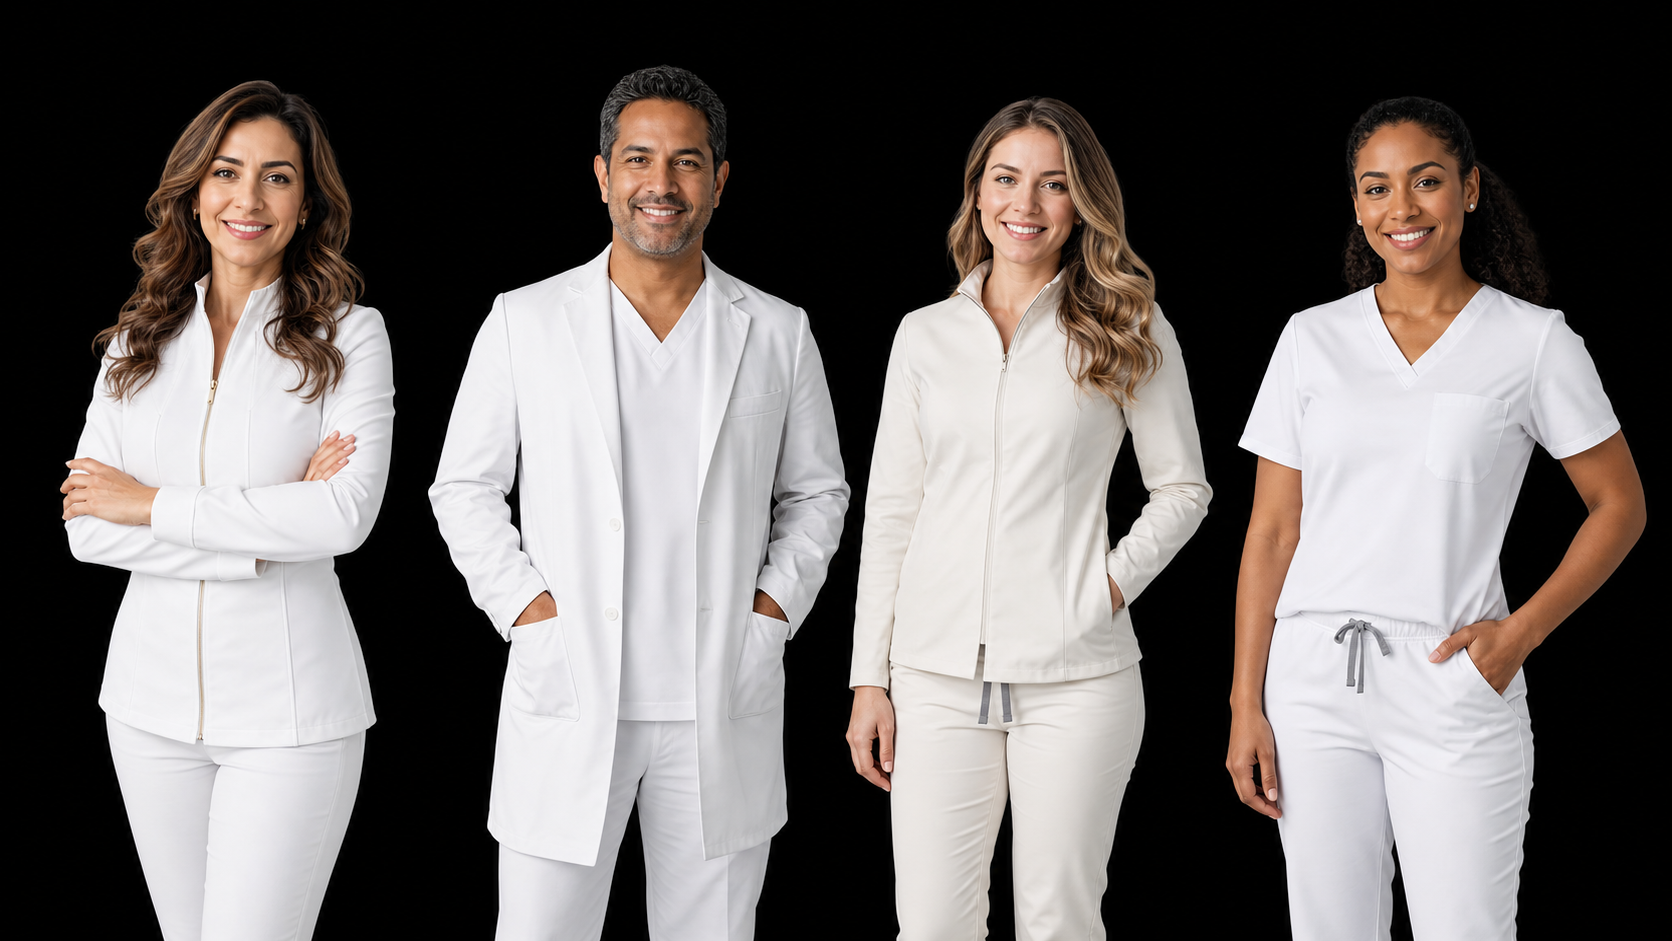
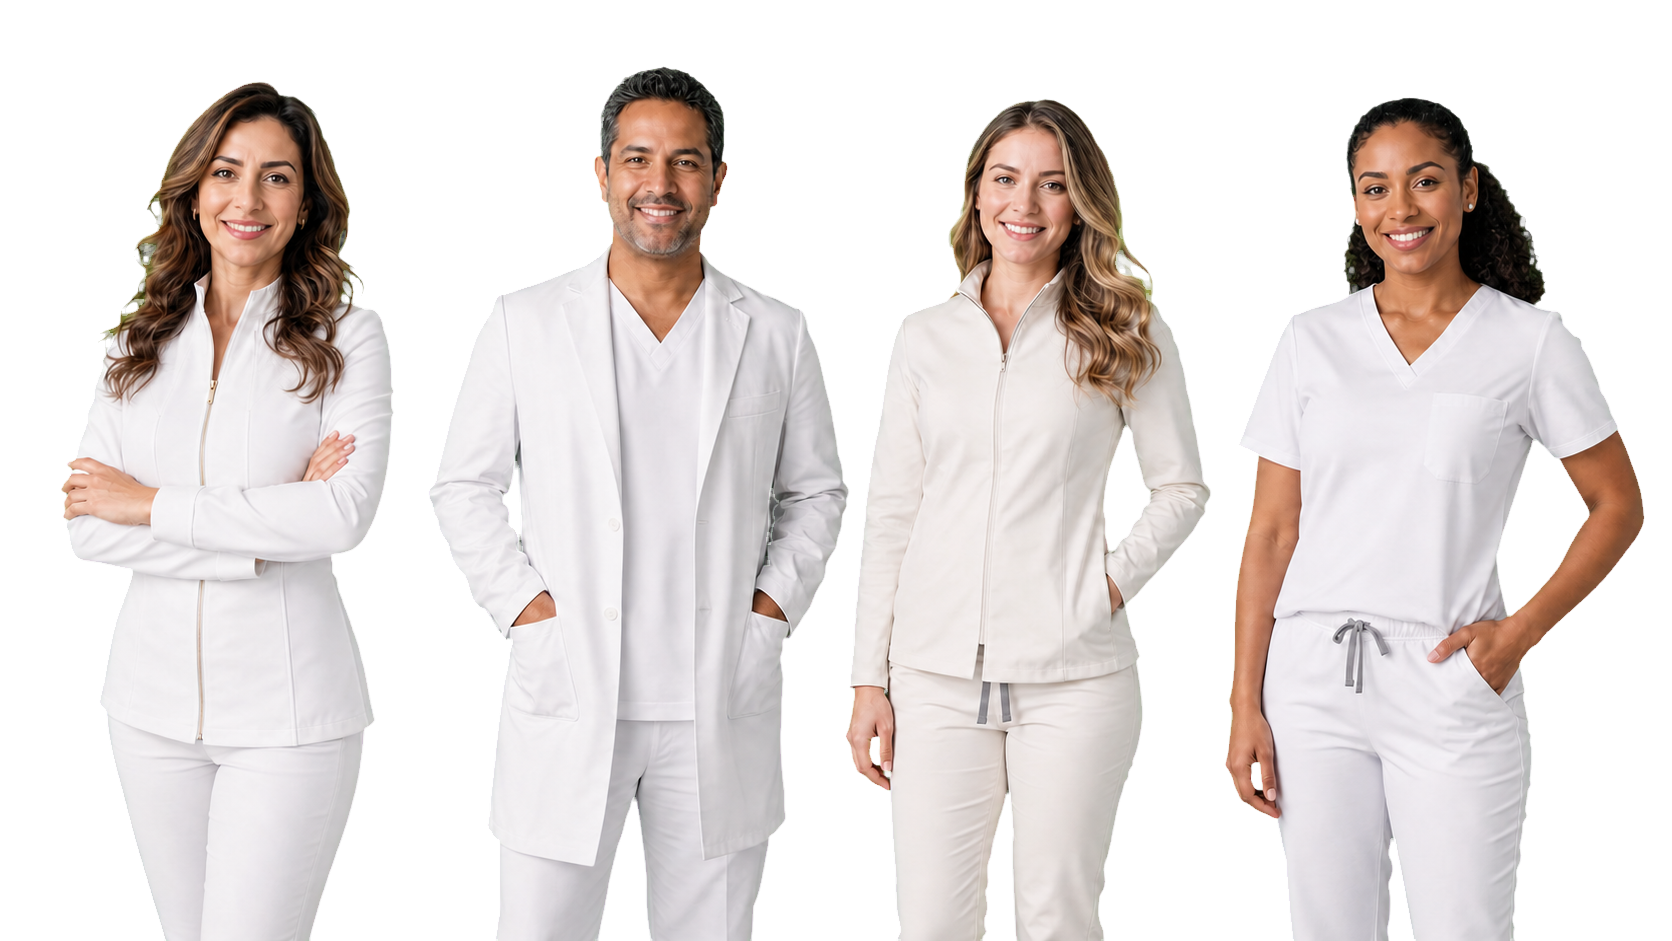
Ajusta titulos y fondo del equipo

diff --git a/public/styles.css b/public/styles.css
@@ -855,14 +855,13 @@ section:not(.hero) {
 
 .doctors {
   overflow: hidden;
-  background:
-    linear-gradient(180deg, var(--ink) 0%, var(--ink) 22%, rgba(46, 35, 24, 0.96) 42%, rgba(46, 35, 24, 0.84) 100%);
-  color: var(--cream);
+  background: var(--cream);
+  color: var(--ink);
   padding-bottom: 0 !important;
 }
 
 .doctors .eyebrow {
-  color: #e4a876;
+  color: var(--terra-deep);
 }
 
 .doctors-head {
@@ -885,16 +884,16 @@ section:not(.hero) {
   min-height: clamp(420px, 48vw, 720px);
   border-radius: 0;
   background:
-    linear-gradient(180deg, var(--ink) 0%, rgba(46, 35, 24, 0.72) 18%, rgba(184, 83, 47, 0.14) 100%),
-    radial-gradient(circle at 20% 18%, rgba(251, 245, 234, 0.24), transparent 34%),
-    radial-gradient(circle at 78% 22%, rgba(184, 83, 47, 0.18), transparent 32%);
+    linear-gradient(180deg, var(--cream) 0%, var(--sand) 58%, rgba(234, 217, 191, 0.9) 100%),
+    radial-gradient(circle at 20% 18%, rgba(184, 83, 47, 0.12), transparent 34%),
+    radial-gradient(circle at 78% 22%, rgba(46, 35, 24, 0.08), transparent 32%);
 }
 
 .team-stage::before {
   content: "";
   position: absolute;
   inset: 9% 2% 0;
-  border-top: 1px solid rgba(251, 245, 234, 0.1);
+  border-top: 1px solid var(--line);
   pointer-events: none;
 }
 
@@ -927,7 +926,7 @@ section:not(.hero) {
 
 .team-dim {
   z-index: 2;
-  background: rgba(46, 35, 24, 0.36);
+  background: rgba(251, 245, 234, 0.52);
   opacity: 0;
   pointer-events: none;
   transition: opacity 0.28s ease;
@@ -941,7 +940,7 @@ section:not(.hero) {
   display: grid;
   grid-template-columns: repeat(4, minmax(0, 1fr));
   gap: 18px;
-  border-top: 1px solid rgba(251, 245, 234, 0.12);
+  border-top: 1px solid var(--line);
   width: min(1180px, calc(100% - 48px));
   margin: 0 auto;
   padding: 22px 0 64px;
@@ -950,7 +949,7 @@ section:not(.hero) {
 .team-name {
   display: grid;
   gap: 5px;
-  color: rgba(251, 245, 234, 0.48);
+  color: rgba(46, 35, 24, 0.52);
   transition: color 0.25s ease, opacity 0.25s ease, transform 0.25s var(--ease);
 }
 
@@ -961,7 +960,7 @@ section:not(.hero) {
 }
 
 .team-name small {
-  color: rgba(251, 245, 234, 0.42);
+  color: rgba(46, 35, 24, 0.44);
   font-size: 12px;
   font-weight: 600;
   letter-spacing: 0.08em;
@@ -970,13 +969,13 @@ section:not(.hero) {
 
 .team-name:hover,
 .team-name.active {
-  color: var(--cream);
+  color: var(--ink);
   transform: translateY(-2px);
 }
 
 .team-name:hover small,
 .team-name.active small {
-  color: #e4a876;
+  color: var(--terra-deep);
 }
 
 .modal-submit {

diff --git a/styles.css b/styles.css
@@ -855,14 +855,13 @@ section:not(.hero) {
 
 .doctors {
   overflow: hidden;
-  background:
-    linear-gradient(180deg, var(--ink) 0%, var(--ink) 22%, rgba(46, 35, 24, 0.96) 42%, rgba(46, 35, 24, 0.84) 100%);
-  color: var(--cream);
+  background: var(--cream);
+  color: var(--ink);
   padding-bottom: 0 !important;
 }
 
 .doctors .eyebrow {
-  color: #e4a876;
+  color: var(--terra-deep);
 }
 
 .doctors-head {
@@ -885,16 +884,16 @@ section:not(.hero) {
   min-height: clamp(420px, 48vw, 720px);
   border-radius: 0;
   background:
-    linear-gradient(180deg, var(--ink) 0%, rgba(46, 35, 24, 0.72) 18%, rgba(184, 83, 47, 0.14) 100%),
-    radial-gradient(circle at 20% 18%, rgba(251, 245, 234, 0.24), transparent 34%),
-    radial-gradient(circle at 78% 22%, rgba(184, 83, 47, 0.18), transparent 32%);
+    linear-gradient(180deg, var(--cream) 0%, var(--sand) 58%, rgba(234, 217, 191, 0.9) 100%),
+    radial-gradient(circle at 20% 18%, rgba(184, 83, 47, 0.12), transparent 34%),
+    radial-gradient(circle at 78% 22%, rgba(46, 35, 24, 0.08), transparent 32%);
 }
 
 .team-stage::before {
   content: "";
   position: absolute;
   inset: 9% 2% 0;
-  border-top: 1px solid rgba(251, 245, 234, 0.1);
+  border-top: 1px solid var(--line);
   pointer-events: none;
 }
 
@@ -927,7 +926,7 @@ section:not(.hero) {
 
 .team-dim {
   z-index: 2;
-  background: rgba(46, 35, 24, 0.36);
+  background: rgba(251, 245, 234, 0.52);
   opacity: 0;
   pointer-events: none;
   transition: opacity 0.28s ease;
@@ -941,7 +940,7 @@ section:not(.hero) {
   display: grid;
   grid-template-columns: repeat(4, minmax(0, 1fr));
   gap: 18px;
-  border-top: 1px solid rgba(251, 245, 234, 0.12);
+  border-top: 1px solid var(--line);
   width: min(1180px, calc(100% - 48px));
   margin: 0 auto;
   padding: 22px 0 64px;
@@ -950,7 +949,7 @@ section:not(.hero) {
 .team-name {
   display: grid;
   gap: 5px;
-  color: rgba(251, 245, 234, 0.48);
+  color: rgba(46, 35, 24, 0.52);
   transition: color 0.25s ease, opacity 0.25s ease, transform 0.25s var(--ease);
 }
 
@@ -961,7 +960,7 @@ section:not(.hero) {
 }
 
 .team-name small {
-  color: rgba(251, 245, 234, 0.42);
+  color: rgba(46, 35, 24, 0.44);
   font-size: 12px;
   font-weight: 600;
   letter-spacing: 0.08em;
@@ -970,13 +969,13 @@ section:not(.hero) {
 
 .team-name:hover,
 .team-name.active {
-  color: var(--cream);
+  color: var(--ink);
   transform: translateY(-2px);
 }
 
 .team-name:hover small,
 .team-name.active small {
-  color: #e4a876;
+  color: var(--terra-deep);
 }
 
 .modal-submit {

diff --git a/public/script.js b/public/script.js
@@ -61,7 +61,7 @@ const reviews = [
 
 const serviceSlidesData = [
   {
-    name: "Ortodoncia",
+    name: "Brackets",
     color: "#6B5B50",
     image: "assets/service-ortodoncia.png",
     description: "Alineadores, brackets estéticos y seguimiento de mordida con planeación clara.",
@@ -75,14 +75,14 @@ const serviceSlidesData = [
     location: "02 / Estética conservadora"
   },
   {
-    name: "Endodoncia",
+    name: "Raíces",
     color: "#4E676F",
     image: "assets/service-endodoncia.png",
     description: "Atención precisa para dolor, sensibilidad profunda y tratamientos de conducto.",
     location: "03 / Alivio y precisión"
   },
   {
-    name: "Pediatría",
+    name: "Niños",
     color: "#8BA08A",
     image: "assets/service-odontopediatria.png",
     description: "Primeras visitas, prevención y tratamiento infantil con una experiencia tranquila.",

diff --git a/script.js b/script.js
@@ -61,7 +61,7 @@ const reviews = [
 
 const serviceSlidesData = [
   {
-    name: "Ortodoncia",
+    name: "Brackets",
     color: "#6B5B50",
     image: "public/assets/service-ortodoncia.png",
     description: "Alineadores, brackets estéticos y seguimiento de mordida con planeación clara.",
@@ -75,14 +75,14 @@ const serviceSlidesData = [
     location: "02 / Estética conservadora"
   },
   {
-    name: "Endodoncia",
+    name: "Raíces",
     color: "#4E676F",
     image: "public/assets/service-endodoncia.png",
     description: "Atención precisa para dolor, sensibilidad profunda y tratamientos de conducto.",
     location: "03 / Alivio y precisión"
   },
   {
-    name: "Pediatría",
+    name: "Niños",
     color: "#8BA08A",
     image: "public/assets/service-odontopediatria.png",
     description: "Primeras visitas, prevención y tratamiento infantil con una experiencia tranquila.",